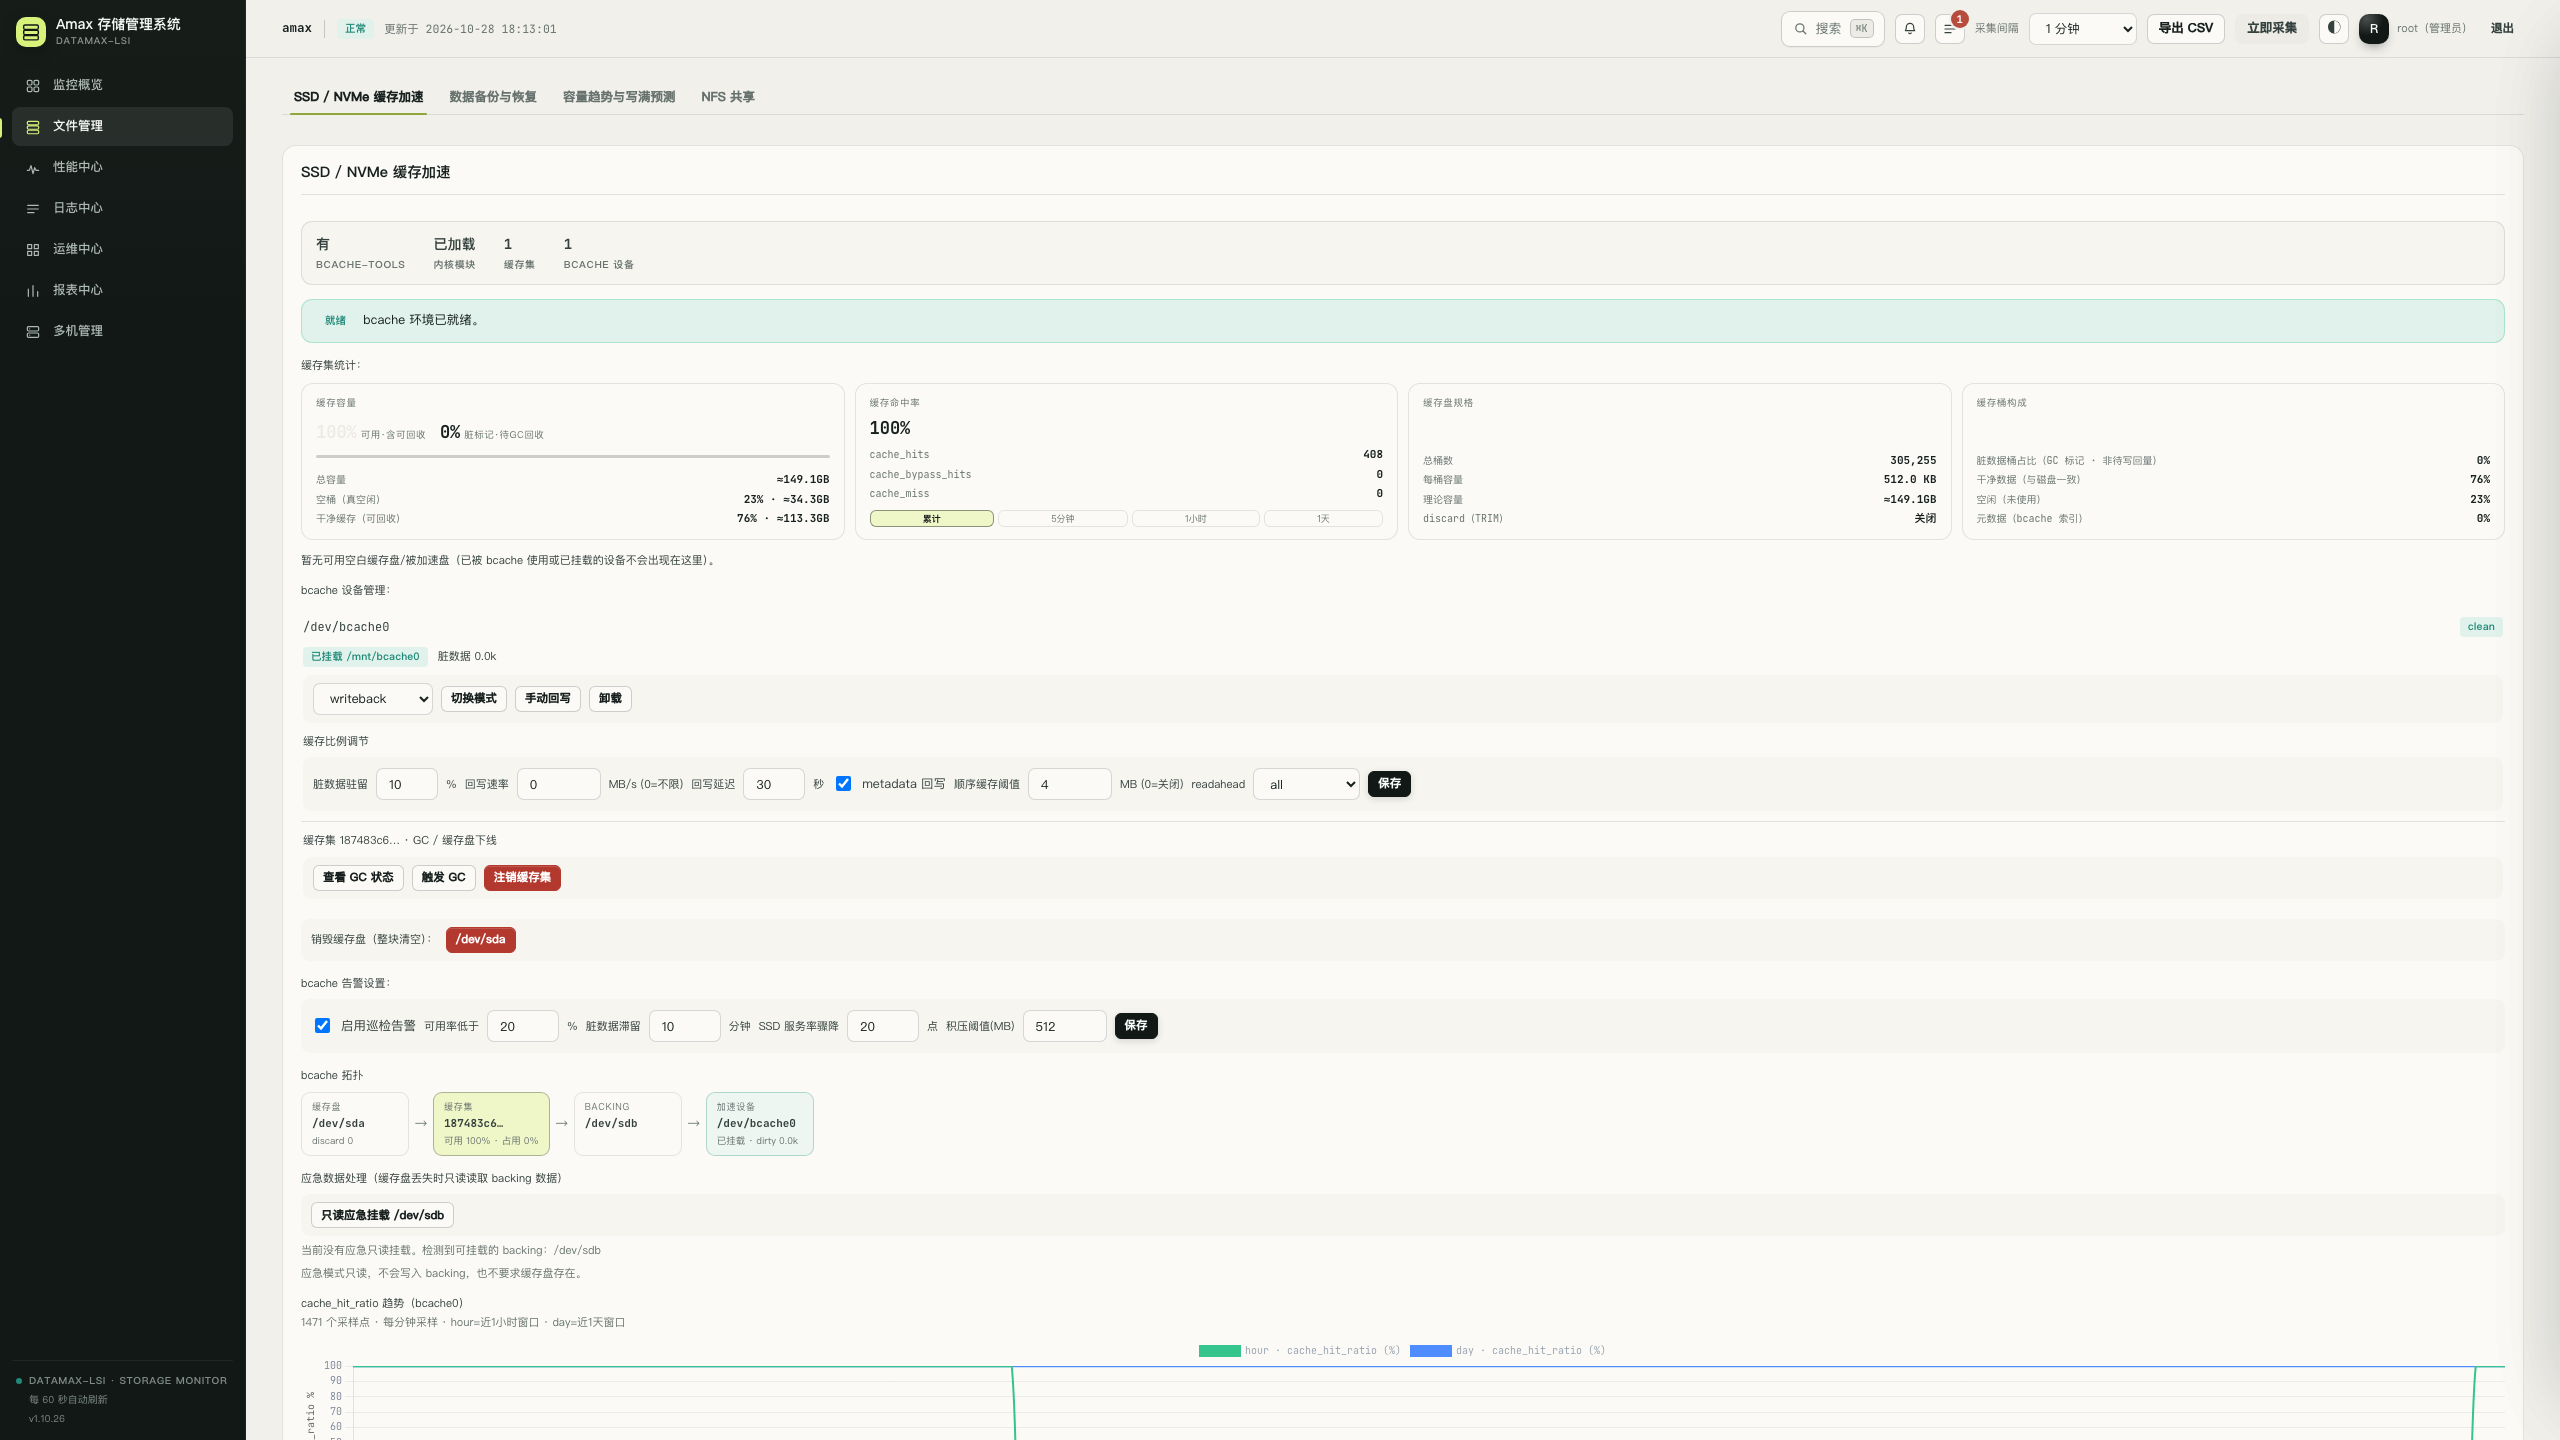
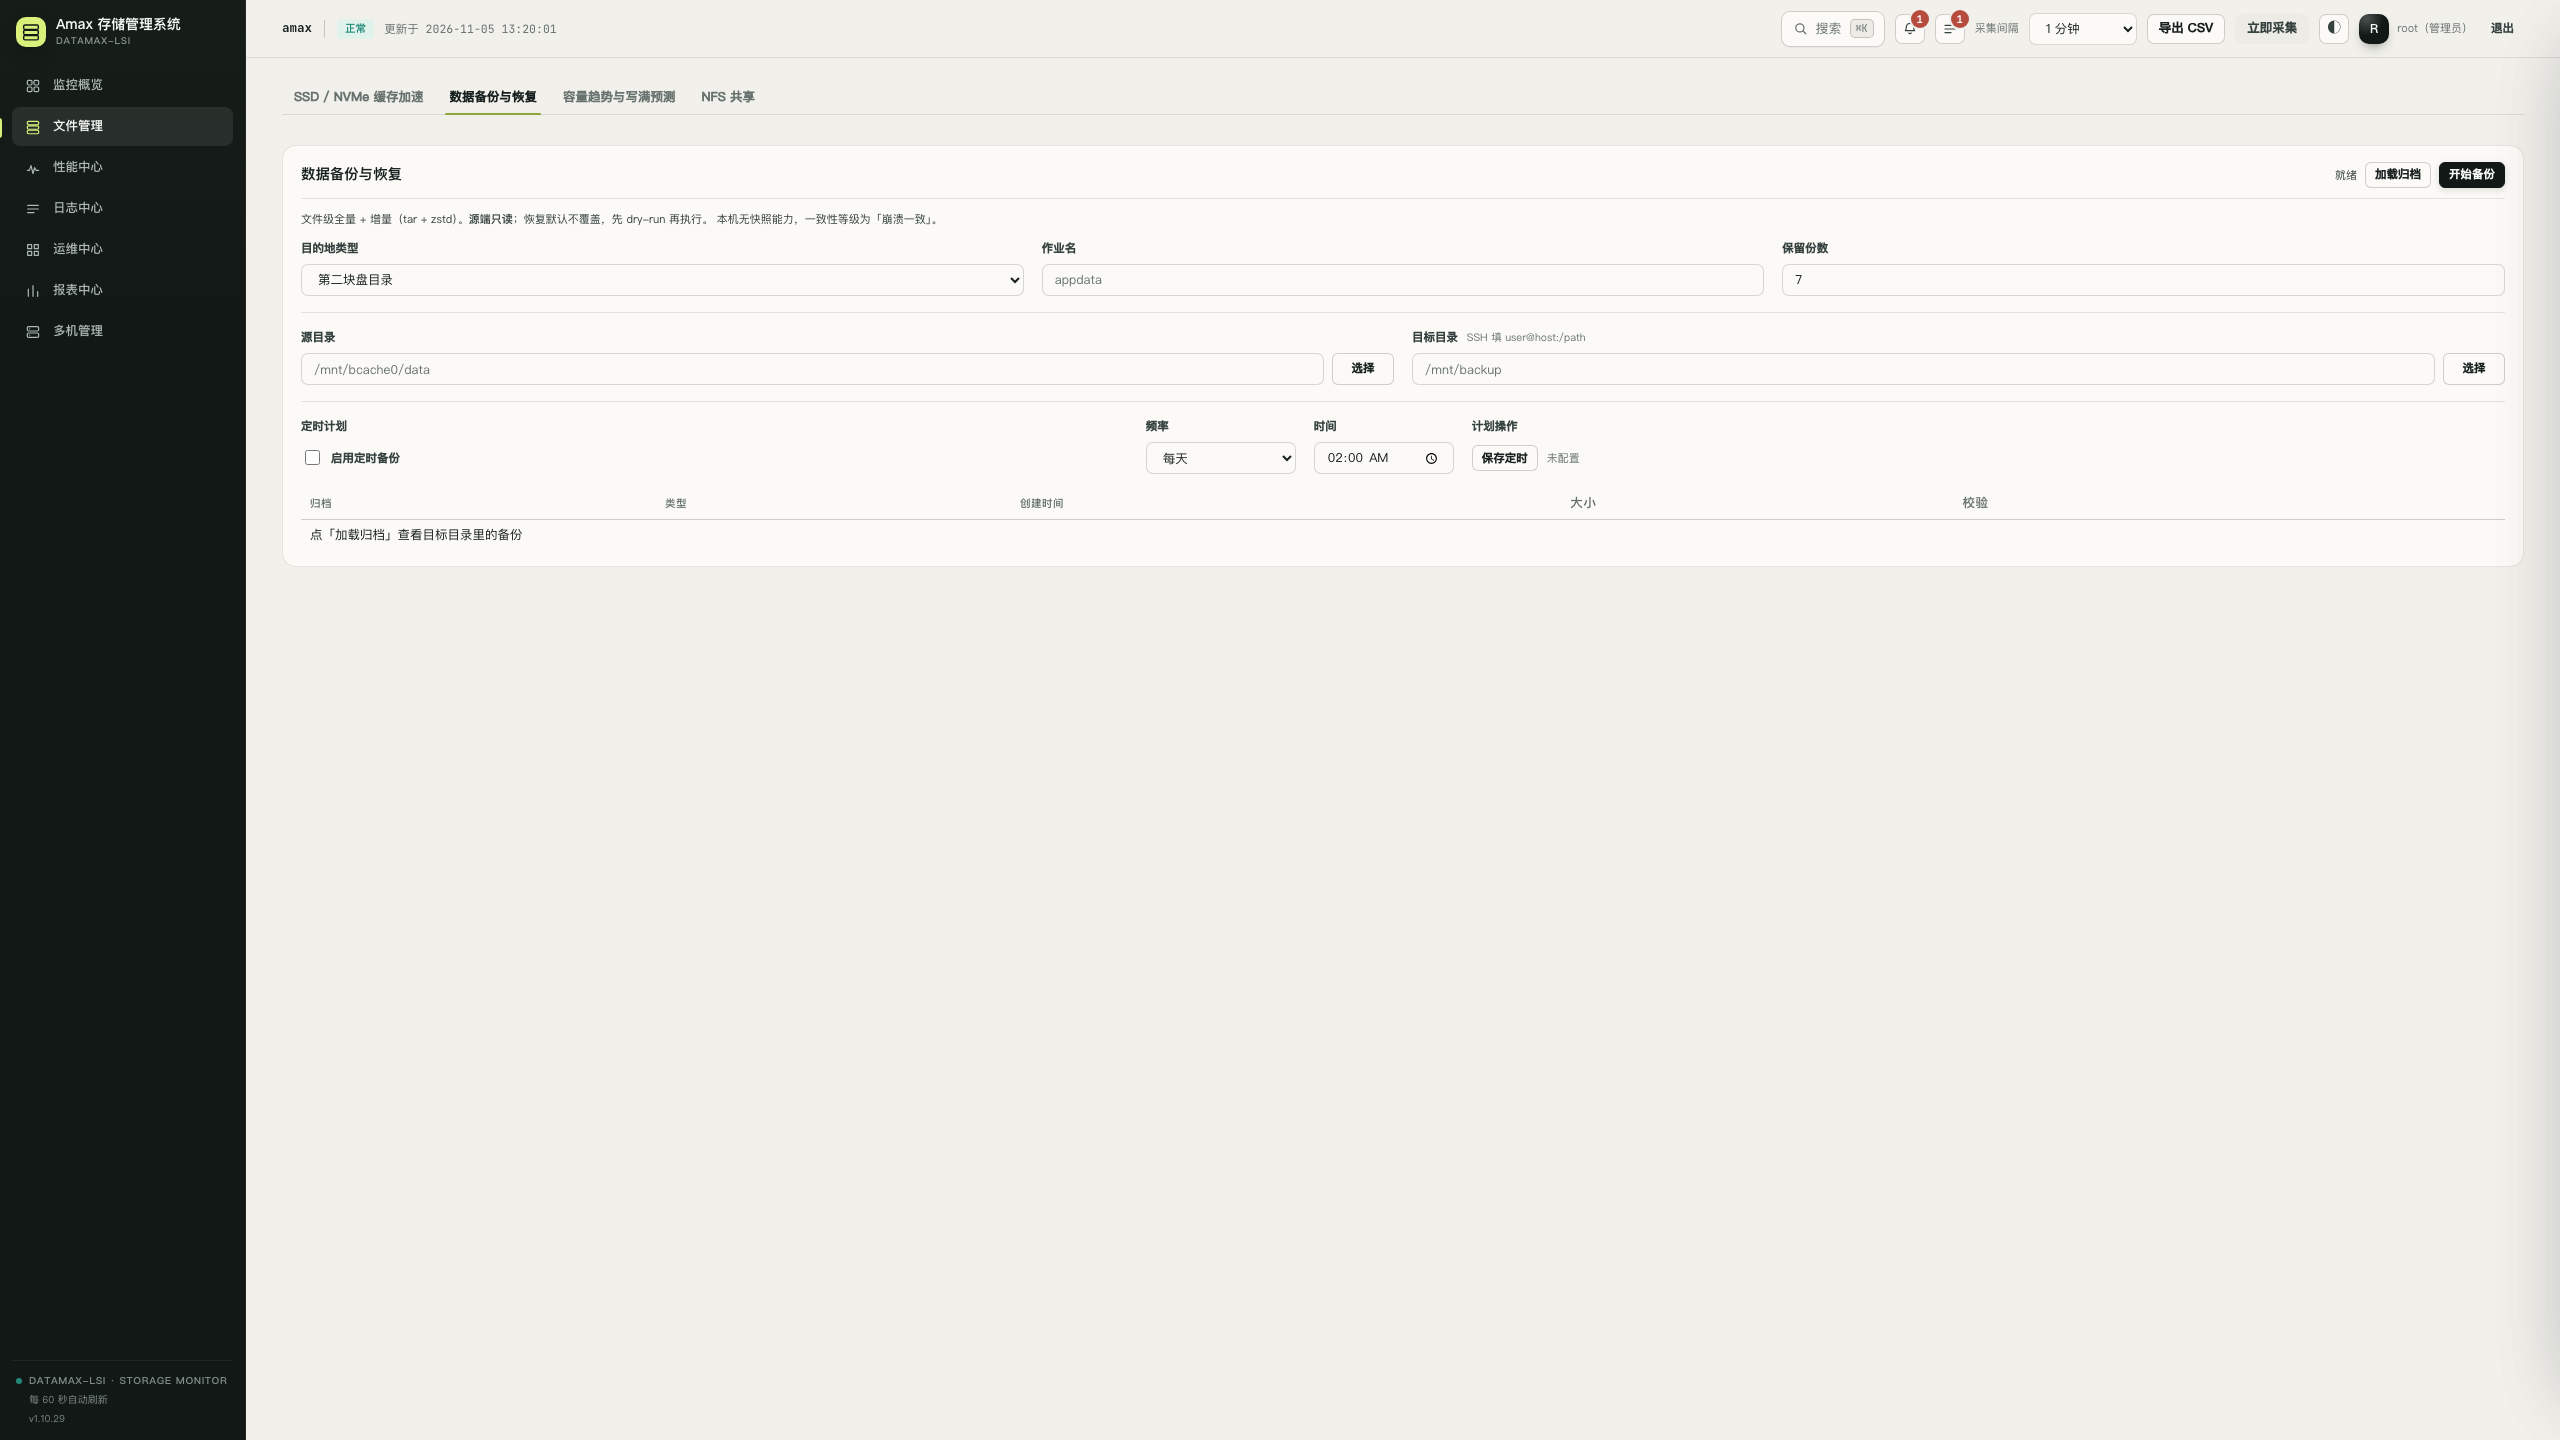
优化数据备份表单对齐

diff --git a/web/templates/index.html b/web/templates/index.html
@@ -621,7 +621,7 @@
               文件级全量 + 增量（tar + zstd）。<strong>源端只读</strong>；恢复默认不覆盖，先 dry-run 再执行。
               本机无快照能力，一致性等级为「崩溃一致」。
             </p>
-            <div class="bench-form" style="grid-template-columns:repeat(5,minmax(0,1fr))">
+            <div class="backup-job-form">
               <div class="field"><label for="db-kind">目的地类型</label>
                 <select class="select" id="db-kind">
                   <option value="local">第二块盘目录</option>
@@ -630,15 +630,20 @@
                 </select></div>
               <div class="field"><label for="db-name">作业名</label>
                 <input class="input" id="db-name" placeholder="appdata" /></div>
-              <div class="field"><label for="db-source">源目录</label>
-                <div class="path-pick"><input class="input" id="db-source" placeholder="/mnt/bcache0/data" readonly /><button class="btn sm" type="button" data-pick="db-source">选择</button></div></div>
-              <div class="field"><label for="db-target">目标（SSH 填 user@host:/path）</label>
-                <div class="path-pick"><input class="input" id="db-target" placeholder="/mnt/backup" readonly /><button class="btn sm" type="button" data-pick="db-target">选择</button></div></div>
               <div class="field"><label for="db-keep">保留份数</label>
                 <input class="input" id="db-keep" type="number" min="1" max="90" value="7" /></div>
+              <div class="backup-path-grid">
+                <div class="field"><label for="db-source">源目录</label>
+                  <div class="path-pick"><input class="input" id="db-source" placeholder="/mnt/bcache0/data" readonly /><button class="btn sm" type="button" data-pick="db-source">选择</button></div></div>
+                <div class="field">
+                  <label for="db-target">目标目录 <span class="label-note">SSH 填 user@host:/path</span></label>
+                  <div class="path-pick"><input class="input" id="db-target" placeholder="/mnt/backup" readonly /><button class="btn sm" type="button" data-pick="db-target">选择</button></div>
+                </div>
+              </div>
             </div>
-            <div class="bench-form" style="grid-template-columns:auto 160px 130px 1fr;margin-top:12px;align-items:end">
-              <div class="field" style="align-self:center">
+            <div class="backup-schedule-row">
+              <div class="field">
+                <label>定时计划</label>
                 <label class="check-row"><input type="checkbox" id="db-sched-on" />
                   <span>启用定时备份</span></label>
               </div>
@@ -648,9 +653,12 @@
                 </select></div>
               <div class="field"><label for="db-sched-time">时间</label>
                 <input class="input" id="db-sched-time" type="time" value="02:00" /></div>
-              <div class="field" style="align-self:end">
-                <button class="btn sm" id="btn-db-sched-save">保存定时</button>
-                <span class="tiny" id="db-sched-state" style="margin-left:8px"></span>
+              <div class="field">
+                <label>计划操作</label>
+                <div class="backup-schedule-actions">
+                  <button class="btn sm" id="btn-db-sched-save">保存定时</button>
+                  <span class="tiny" id="db-sched-state"></span>
+                </div>
               </div>
             </div>
 

diff --git a/web/static/css/style.css b/web/static/css/style.css
@@ -4384,6 +4384,103 @@ input[type="checkbox"], input[type="radio"] {
 #card-data-backup .bench-form .input,
 #card-data-backup .bench-form .select { min-width: 0; width: 100%; }
 
+/* 备份作业：元数据一行，源/目标路径独立一行；路径输入与选择按钮
+   共用 32px 控件基线，避免长短标签把字段推成不同高度。 */
+.backup-job-form {
+  display: grid;
+  grid-template-columns: repeat(3, minmax(0, 1fr));
+  gap: 16px 18px;
+  align-items: end;
+}
+.backup-path-grid {
+  grid-column: 1 / -1;
+  display: grid;
+  grid-template-columns: repeat(2, minmax(0, 1fr));
+  gap: 16px 18px;
+  padding-top: 16px;
+  border-top: 1px solid var(--border);
+}
+.backup-job-form .field,
+.backup-schedule-row .field {
+  min-width: 0;
+}
+.backup-job-form .input,
+.backup-job-form .select,
+.backup-schedule-row .input,
+.backup-schedule-row .select {
+  width: 100%;
+  min-width: 0;
+}
+.path-pick {
+  display: grid;
+  grid-template-columns: minmax(0, 1fr) 62px;
+  gap: 8px;
+  align-items: center;
+}
+.path-pick .input {
+  width: 100%;
+  min-width: 0;
+}
+.path-pick .btn {
+  width: 100%;
+  height: 32px;
+  padding-inline: 8px;
+  white-space: nowrap;
+}
+.label-note {
+  margin-left: 5px;
+  color: var(--ink-faint);
+  font-size: 10.5px;
+  font-weight: 400;
+  white-space: nowrap;
+}
+.backup-schedule-row {
+  display: grid;
+  grid-template-columns: minmax(160px, .8fr) 150px 140px minmax(220px, 1fr);
+  gap: 16px 18px;
+  align-items: end;
+  margin-top: 16px;
+  padding-top: 16px;
+  border-top: 1px solid var(--border);
+}
+.backup-schedule-row .check-row {
+  height: 32px;
+  min-height: 32px;
+  align-items: center;
+  margin: 0;
+  padding: 0;
+  box-sizing: border-box;
+}
+.backup-schedule-actions {
+  display: flex;
+  min-height: 32px;
+  align-items: center;
+  gap: 9px;
+  flex-wrap: wrap;
+}
+.backup-schedule-actions .tiny {
+  color: var(--ink-faint);
+}
+@media (max-width: 1000px) {
+  .backup-schedule-row {
+    grid-template-columns: repeat(2, minmax(0, 1fr));
+  }
+}
+@media (max-width: 700px) {
+  .backup-job-form,
+  .backup-path-grid,
+  .backup-schedule-row {
+    grid-template-columns: 1fr;
+  }
+  .backup-path-grid {
+    padding-top: 14px;
+  }
+  .label-note {
+    display: block;
+    margin: 2px 0 0;
+  }
+}
+
 
 /* 服务器目录选择器 */
 .dirpick-mask { position: fixed; inset: 0; z-index: 1200; background: rgba(10,12,14,.45); display: flex; align-items: center; justify-content: center; padding: 24px; }

diff --git a/web_server.py b/web_server.py
@@ -73,7 +73,7 @@ import data_backup_mgr
 PROJECT_ROOT = Path(__file__).resolve().parent
 BASE_DIR = Path(os.environ.get("LSI_DATA_DIR", str(PROJECT_ROOT / "data")))
 
-VERSION = "1.10.28"
+VERSION = "1.10.30"
 AUTH_MODE = os.environ.get("LSI_AUTH_MODE", "pam")
 
 LOCAL_STORCLI = PROJECT_ROOT / "storcli64"
